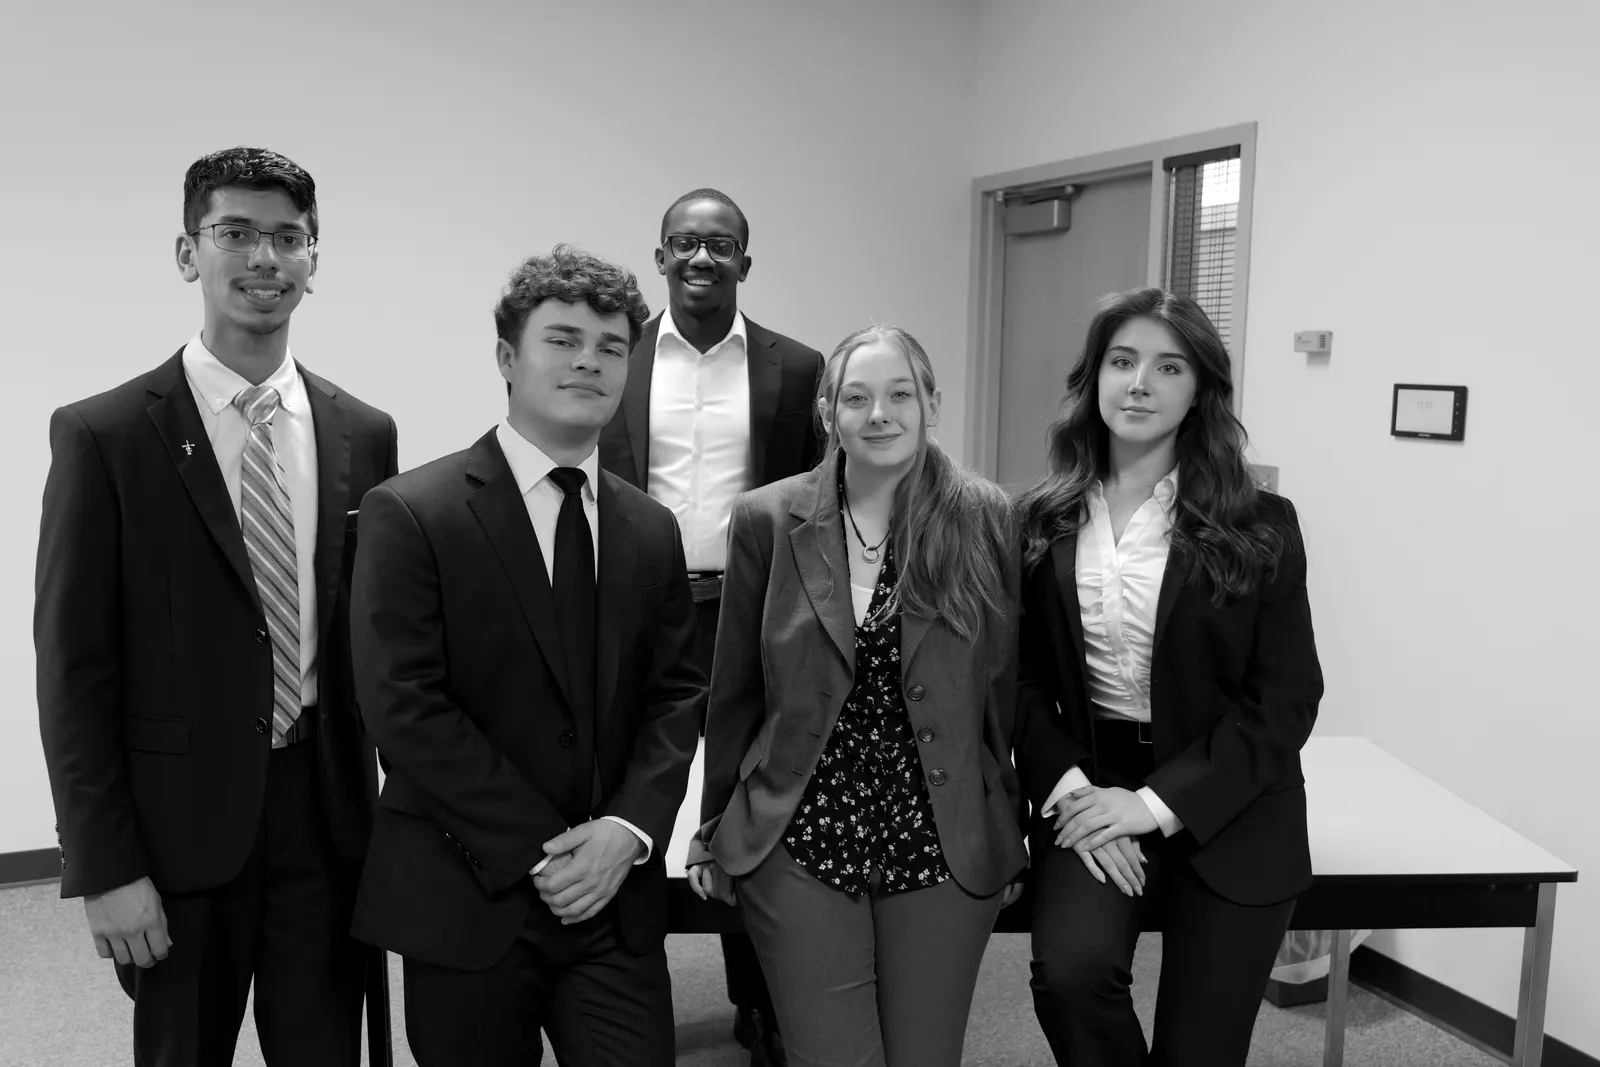
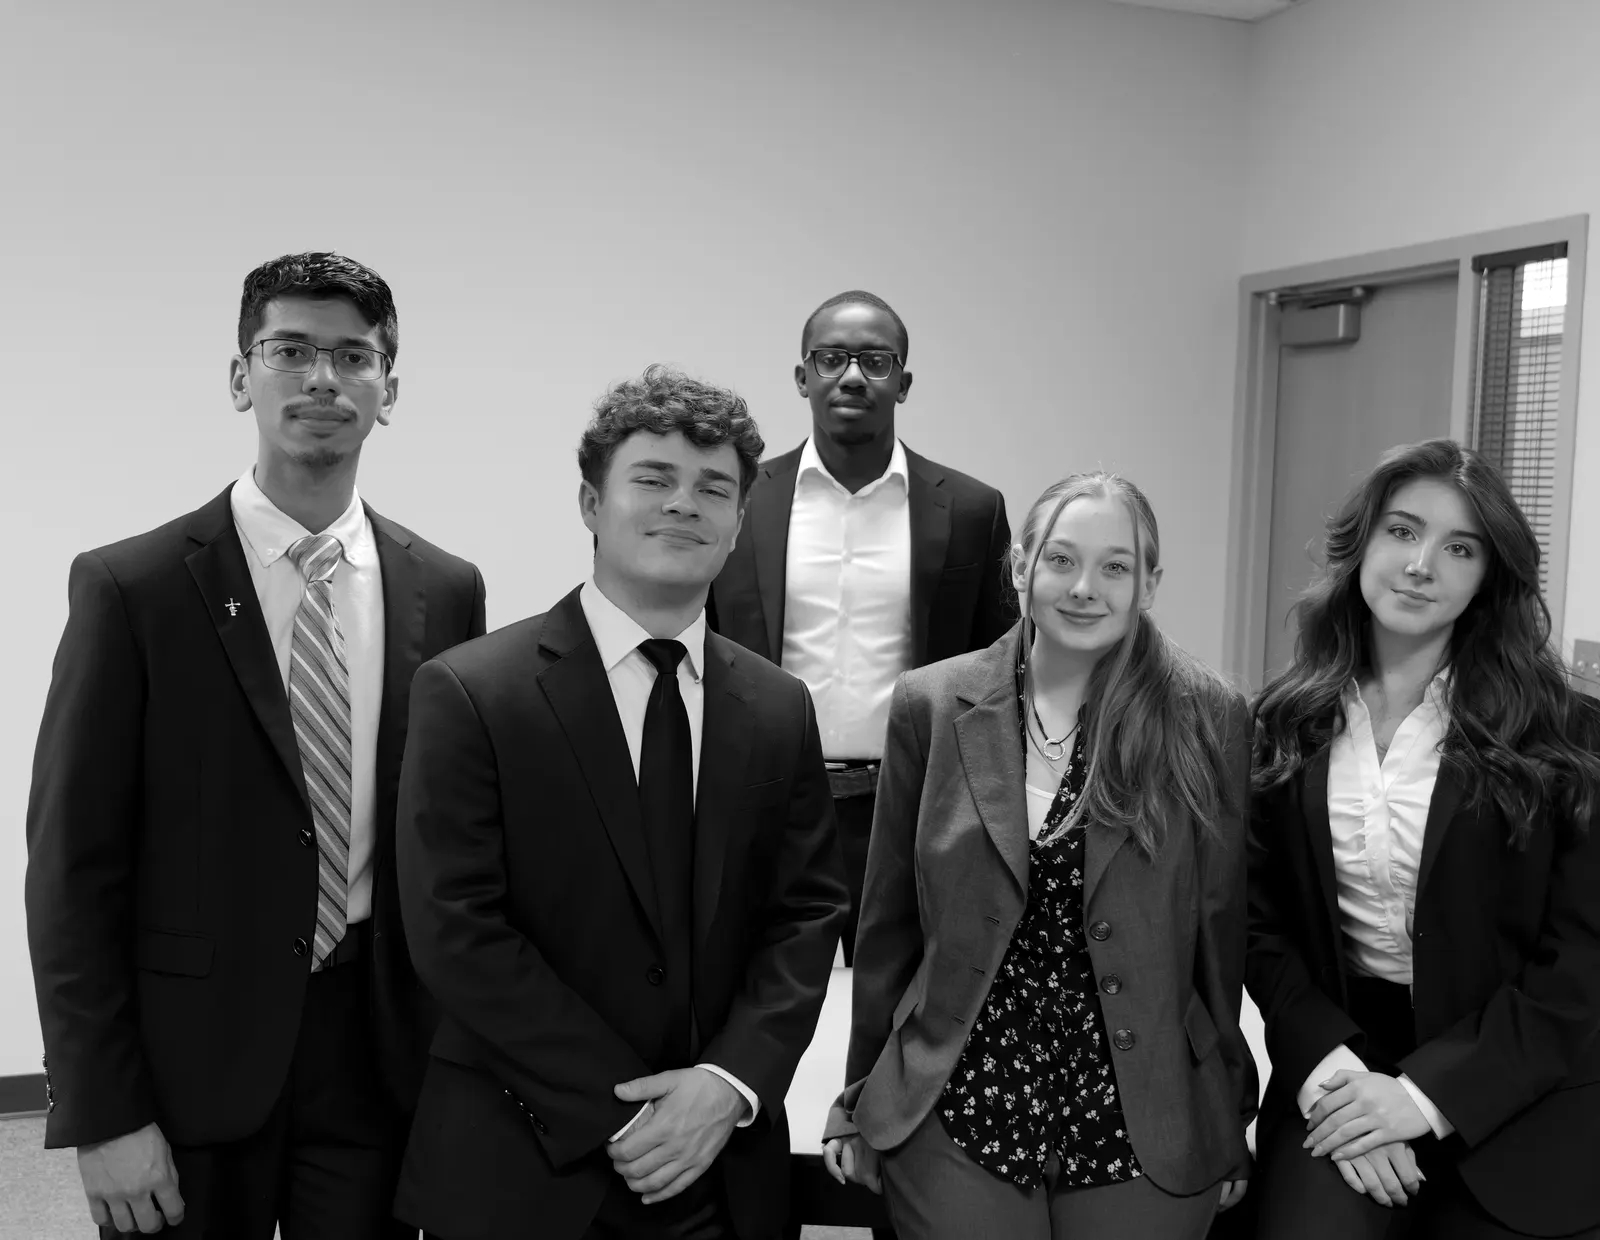
headshots wired + event teaser + photo tuning
- 5 confirmed headshots (Kato, Edward, Andrew, Jaden, Jenny) wired across all chapter occurrences in about.ts; pending/ staging removed, pipeline writes to public/team/ directly
- hero: event teaser pill (Sept 25 · Legacy) above the eyebrow linking to /#events; photo presence up (opacity .55, lighter wash)
- About band: swapped to the five-officer classroom shot with a source crop (new fractional crop option in the pipeline) so the group sits centered in the 21:9 frame
- /network: chip labels absolutely positioned so logos sit on the chips' optical center

diff --git a/src/styles/MainText.css b/src/styles/MainText.css
@@ -30,7 +30,7 @@
 
 .hero-photo img {
   object-fit: cover;
-  opacity: 0.45;
+  opacity: 0.55;
 }
 
 .hero-photo::after {
@@ -53,13 +53,13 @@
   background:
     radial-gradient(
       ellipse 58% 52% at 50% 42%,
-      rgba(250, 249, 247, 0.92) 30%,
+      rgba(250, 249, 247, 0.9) 30%,
       rgba(250, 249, 247, 0) 100%
     ),
     linear-gradient(
       180deg,
-      rgba(250, 249, 247, 0.6) 0%,
-      rgba(250, 249, 247, 0.42) 60%,
+      rgba(250, 249, 247, 0.52) 0%,
+      rgba(250, 249, 247, 0.34) 60%,
       var(--color-canvas) 97%
     );
 }
@@ -72,6 +72,62 @@
   align-items: center;
   text-align: center;
   padding-block: clamp(3.5rem, 9vh, 6rem);
+}
+
+/* Flagship-event teaser pill — quiet card surface, red only on the date. */
+.hero-event-chip {
+  display: inline-flex;
+  align-items: center;
+  gap: 0.65rem;
+  padding: 0.45rem 0.95rem;
+  margin-bottom: 1.5rem;
+  border-radius: 999px;
+  background: var(--color-card);
+  border: 1px solid var(--color-hairline);
+  box-shadow: 0 1px 2px rgb(0 0 0 / 0.03);
+  font-size: 0.8438rem;
+  text-decoration: none;
+  transition:
+    border-color 0.2s ease,
+    transform 0.2s ease;
+}
+
+.hero-event-chip:hover {
+  border-color: var(--color-ink-muted);
+  transform: translateY(-1px);
+}
+
+.hero-event-chip:active {
+  transform: translateY(0);
+}
+
+.hero-event-date {
+  font-family: var(--font-accent);
+  font-weight: 700;
+  font-variant-numeric: tabular-nums;
+  color: var(--color-auag-red);
+  white-space: nowrap;
+}
+
+.hero-event-name {
+  font-weight: 500;
+  color: var(--color-ink);
+}
+
+.hero-event-arrow {
+  color: var(--color-ink-muted);
+  transition: transform 0.2s ease;
+}
+
+.hero-event-chip:hover .hero-event-arrow {
+  transform: translateX(3px);
+}
+
+@media (prefers-reduced-motion: reduce) {
+  .hero-event-chip,
+  .hero-event-arrow {
+    transition: none;
+  }
 }
 
 .hero-logo {

diff --git a/src/data/about.ts b/src/data/about.ts
@@ -62,6 +62,7 @@ export const chapters: Chapter[] = [
       {
         name: 'Kato Golooba-Mutebi',
         role: 'Founder',
+        photo: '/team/kato-golooba-mutebi.jpg',
         bio: 'Started AUAG in 2024 to turn the Andrews alumni network into an active engine for student opportunity, not a contact list that lives in a brochure.',
       },
       {
@@ -96,6 +97,7 @@ export const chapters: Chapter[] = [
       {
         name: 'Kato Golooba-Mutebi',
         role: 'President',
+        photo: '/team/kato-golooba-mutebi.jpg',
         departed: true,
       },
       {
@@ -116,10 +118,12 @@ export const chapters: Chapter[] = [
       {
         name: 'Jaden Pailing',
         role: 'Community Development',
+        photo: '/team/jaden-pailing.jpg',
       },
       {
         name: 'Edward Cervantes',
         role: 'Treasurer',
+        photo: '/team/edward-cervantes.jpg',
       },
       {
         name: 'Sara Rubio',
@@ -137,6 +141,7 @@ export const chapters: Chapter[] = [
       {
         name: 'Andrew Dombrowski',
         role: 'President',
+        photo: '/team/andrew-dombrowski.jpg',
         departed: true,
         outcomes: [
           {
@@ -150,6 +155,7 @@ export const chapters: Chapter[] = [
       {
         name: 'Edward Cervantes',
         role: 'Treasurer',
+        photo: '/team/edward-cervantes.jpg',
         departed: true,
         outcomes: [
           {
@@ -190,10 +196,12 @@ export const chapters: Chapter[] = [
       {
         name: 'Jenny Rothermel',
         role: 'Vice President',
+        photo: '/team/jenny-rothermel.jpg',
       },
       {
         name: 'Jaden Pailing',
         role: 'Community Development',
+        photo: '/team/jaden-pailing.jpg',
         outcomes: [
           {
             role: 'Accounting Intern',

diff --git a/src/components/MainText.tsx b/src/components/MainText.tsx
@@ -1,4 +1,5 @@
 import { useRef } from 'react';
+import { Link } from 'react-router-dom';
 import {
   motion,
   useReducedMotion,
@@ -39,6 +40,19 @@ export const MainText: React.FC = () => {
         initial="hidden"
         animate="visible"
       >
+        {/* Flagship-event teaser — facts match Events.tsx (HPAC contract). */}
+        <motion.div variants={fadeRise}>
+          <Link to="/#events" className="hero-event-chip">
+            <span className="hero-event-date">Sept 25</span>
+            <span className="hero-event-name">
+              Legacy: An AUAG Alumni Series
+            </span>
+            <span className="hero-event-arrow" aria-hidden="true">
+              →
+            </span>
+          </Link>
+        </motion.div>
+
         <motion.p className="eyebrow" variants={fadeRise}>
           Andrews University Action Group
         </motion.p>

diff --git a/src/styles/Network.css b/src/styles/Network.css
@@ -110,11 +110,11 @@
 
 /* Dark chips — the light logo PNGs need a dark ground. */
 .network-chip {
+  position: relative;
   display: flex;
   flex-direction: column;
   align-items: center;
   justify-content: center;
-  gap: 0.6rem;
   min-height: 104px;
   padding: 1rem;
   border-radius: 12px;
@@ -151,11 +151,20 @@
   opacity: 1;
 }
 
+/* Absolutely positioned so the (usually invisible) label never pushes the
+   logo off the chip's optical center. */
 .network-chip-name {
+  position: absolute;
+  bottom: 0.55rem;
+  left: 0.75rem;
+  right: 0.75rem;
   font-size: 0.7188rem;
   font-weight: 500;
   color: var(--color-on-dark-muted);
   text-align: center;
+  white-space: nowrap;
+  overflow: hidden;
+  text-overflow: ellipsis;
   opacity: 0;
   transition: opacity 0.2s ease;
 }

diff --git a/src/data/photos.ts b/src/data/photos.ts
@@ -46,9 +46,9 @@ export const photos = {
     id: 'officers-line',
     base: '/photos/officers-line',
     widths: [800, 1600],
-    width: 6000,
+    width: 5160,
     height: 4000,
     alt: 'The AUAG officer team standing together',
-    focus: '50% 28%',
+    focus: '50% 34%',
   },
 } satisfies Record<string, SitePhoto>;
